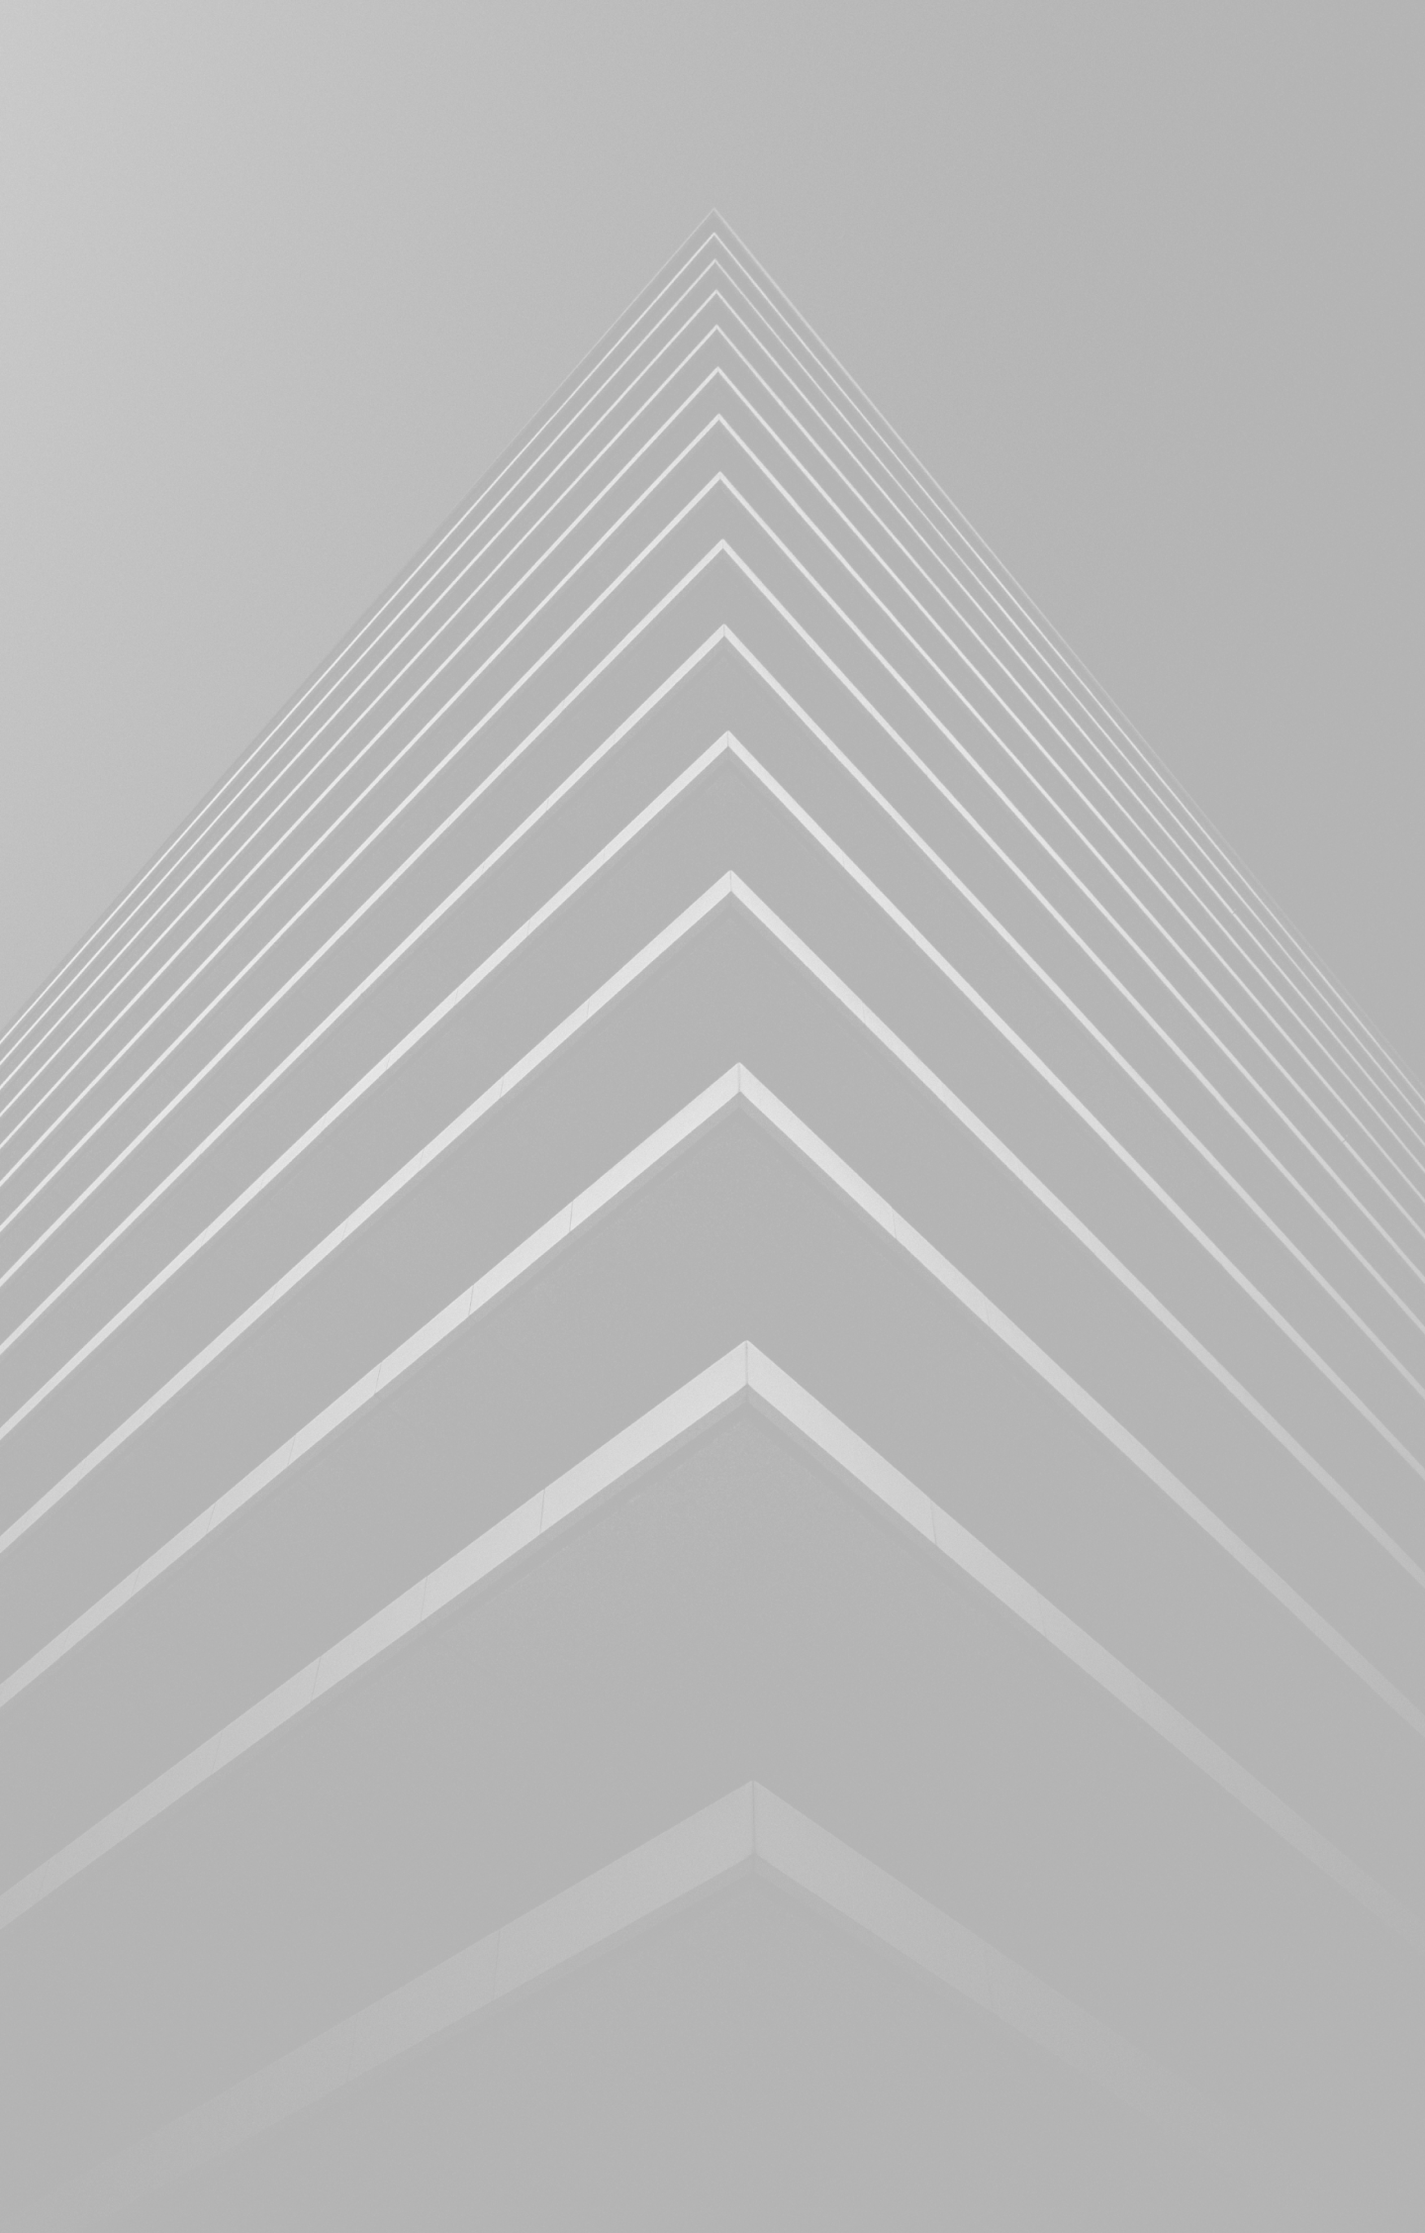
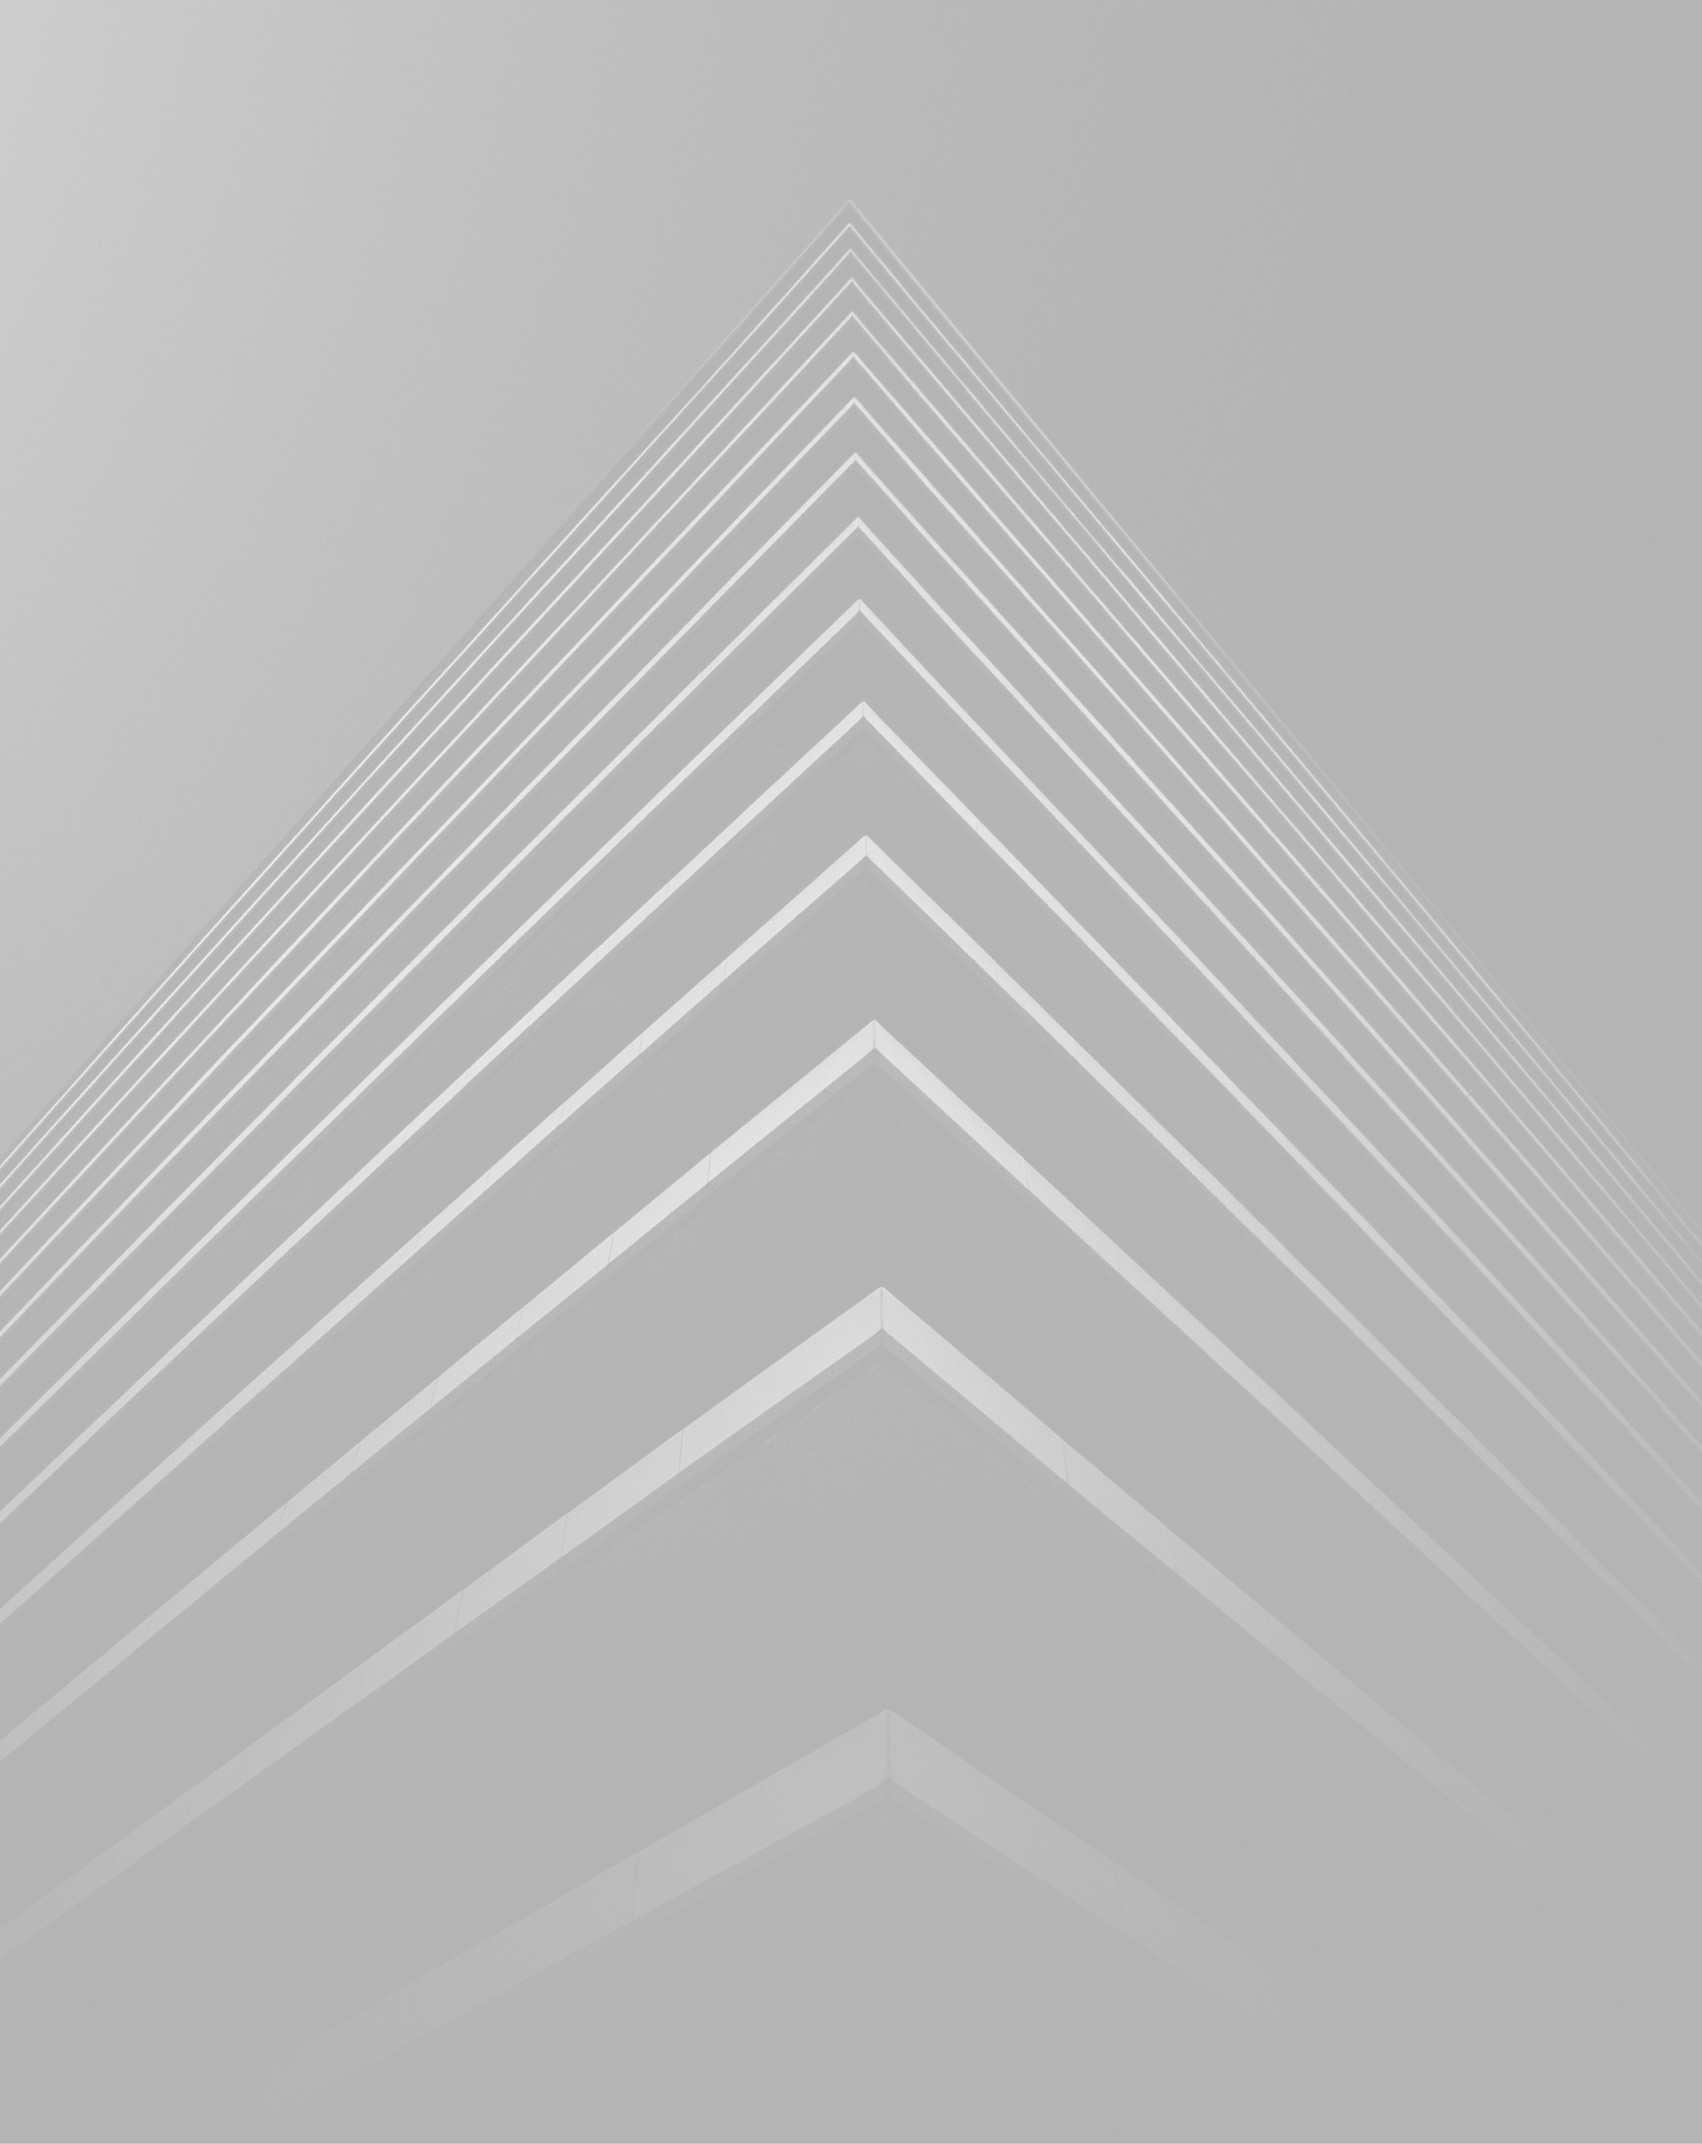
css changes and added container | changed bg size

diff --git a/components/landing/landing.js b/components/landing/landing.js
@@ -1,9 +1,11 @@
+// Components
+import Container from "../container.js";
 // Assets
 import styles from "./landing.module.css";
 
 export default function Landing() {
   return (
-    <div className={styles.container}>
+    <Container>
       <div className={styles.left}>
         <span className={styles.title}>Mark</span>
         <br />
@@ -13,9 +15,13 @@ export default function Landing() {
       </div>
       <div className={styles.rightContainer}>
         <div className={styles.right}>
-          <p className={styles.semititle}>I develop beautiful<br />websites.</p>
+          <p className={styles.semititle}>
+            I develop beautiful
+            <br />
+            websites.
+          </p>
         </div>
       </div>
-    </div>
+    </Container>
   );
 }

diff --git a/pages/index.js b/pages/index.js
@@ -6,6 +6,7 @@ import Head from "next/head";
 import Background from "../components/background/bg.js";
 import Content from "../components/content.js";
 import Landing from "../components/landing/landing.js";
+import About from "../components/about/about.js";
 
 // Assets
 
@@ -17,8 +18,9 @@ export default function Home() {
         <link rel="icon" href="/favicon.ico" />
       </Head>
       <Background />
-        <Content>
-          <Landing />
+      <Content>
+        <Landing />
+        <About />
       </Content>
     </React.Fragment>
   );

diff --git a/components/background/bg.module.css b/components/background/bg.module.css
@@ -4,6 +4,7 @@
   position: absolute;
   top: 0;
   left: 0;
+  max-width: 100vw;
   -webkit-touch-callout: none;
   -webkit-user-select: none;
   -khtml-user-select: none;
@@ -11,9 +12,10 @@
   -ms-user-select: none;
   -o-user-select: none;
   user-select: none;
+  text-align: center;
 }
 .firstBg {
-  min-width: 100vw;
+  max-width: 100vw;
   height: 2200px;
   -webkit-touch-callout: none;
   -webkit-user-select: none;

diff --git a/components/about/about.js b/components/about/about.js
@@ -1,0 +1,12 @@
+// Components
+import Container from "../container.js";
+// Assets
+import styles from "./about.module.css";
+
+export default function About() {
+  return (
+    <Container>
+      <div className={styles.header}>about</div>
+    </Container>
+  );
+}

diff --git a/components/landing/landing.module.css b/components/landing/landing.module.css
@@ -1,12 +1,3 @@
-.container {
-  color: #fff;
-  min-height: 100vh;
-  min-width: 100vw;
-  display: flex;
-  /* justify-content: space-between; */
-  flex-direction: column;
-  padding: 2em;
-}
 .left {
   margin-top: 80px;
   max-width: 700px;

diff --git a/components/container.module.css b/components/container.module.css
@@ -1,0 +1,9 @@
+.container {
+  color: #fff;
+  min-height: 100vh;
+  min-width: 100vw;
+  display: flex;
+  /* justify-content: space-between; */
+  flex-direction: column;
+  padding: 2em;
+}

diff --git a/components/container.js b/components/container.js
@@ -1,0 +1,6 @@
+// Assets
+import styles from "./container.module.css";
+
+export default function Container({ children }) {
+  return <div className={styles.container}>{children}</div>;
+}

diff --git a/components/about/about.module.css b/components/about/about.module.css
@@ -1,0 +1,5 @@
+.header{
+  text-align: center;
+  opacity: 0.6;
+  font-size: 70px;
+}
